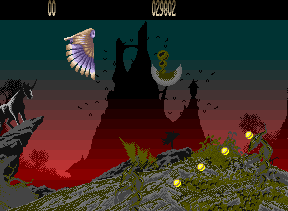
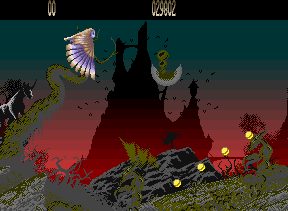
Bring the front map in from the right, as Front_Table does
The original starts a level on an empty front playfield and builds each
column of the map 40 bytes into the build screen, just right of the
window. The port filled the screen with the first eleven columns at once,
which put the whole front scenery ten columns ahead of the level script,
the back scroll and the palette steps: the breaking wave that is the
final monster of the sea had left the screen when the script brought it
in, and every palette step landed on the wrong stretch of scenery.

diff --git a/src/main/java/com/artandmagic/agony/game/FrontScroll.java b/src/main/java/com/artandmagic/agony/game/FrontScroll.java
@@ -14,10 +14,15 @@ import com.artandmagic.agony.data.LevelData;
  * column is blitted into the build screen over sixteen 25 Hz frames, two pixels
  * of fine scroll at a time, and the screens rotate once the column is complete.
  *
- * <p>This port keeps the same 352 pixel wide buffer but treats it as a ring:
- * the column that has just left the left edge is rebuilt in one go, which is
- * invisible to the player and removes the sixteen phase blit state machine.
- * The pristine copy survives as {@link #scenery}, the build screen as
+ * <p>This port keeps the same 352 pixel wide buffer but treats it as a ring,
+ * and builds a column in one go rather than over sixteen frames.  Where it
+ * goes is what {@code Front_Table} says: 40 bytes into the build screen, the
+ * 32 pixels just right of the 304 the window shows.  The level starts on an
+ * empty front playfield and the map comes in from the right, one column per
+ * character of scroll, so the scenery, the level script and the back scroll
+ * stay in step; the final monster of the sea, a breaking wave in the last
+ * columns of the map, is on screen when the script brings it in.  The
+ * pristine copy survives as {@link #scenery}, the build screen as
  * {@link #work}.
  */
 public final class FrontScroll {
@@ -48,11 +53,16 @@ public final class FrontScroll {
         this.state = state;
     }
 
-    /** Fills the whole ring before the level starts. */
+    /** Ring column of the 40th byte of the build screen, {@code Front_Table}. */
+    private static final int ENTRY_COLUMN = 40 * 8 / CHAR_W;
+
+    /**
+     * Sets the level up: the front playfield starts empty, the first column
+     * of the map is built just right of the window, and the first palette
+     * step is in.
+     */
     public void prime(Palette palette) {
-        for (int c = 0; c < RING_W / CHAR_W; c++) {
-            installColumn(c);
-        }
+        installColumn(ENTRY_COLUMN);
         applyPalette(palette);
     }
 
@@ -98,13 +108,13 @@ public final class FrontScroll {
         }
         state.frontPhase = 0;
 
-        // The column that has just left the left edge is the one rebuilt: the
-        // window is 304 pixels of a 352 pixel ring, so it comes back in on the
-        // right sixteen video frames later, which is when the original has
-        // finished blitting it.
-        int leaving = (state.frontScroll / CHAR_W) % (RING_W / CHAR_W);
+        // The screens move on by a character, and the next column of the map
+        // is built 40 bytes into the new build screen.  The window does not
+        // reach it before the middle of the column's sixteen frames, by which
+        // time the original has blitted its top half; the port lays it all at
+        // once.
         state.frontScroll = (state.frontScroll + CHAR_W) % RING_W;
-        installColumn(leaving);
+        installColumn((state.frontScroll / CHAR_W + ENTRY_COLUMN) % (RING_W / CHAR_W));
     }
 
     /**

diff --git a/README.md b/README.md
@@ -154,9 +154,11 @@ the twelve alien shots and the twenty four rain drops.
   encode, so the twelve hand written blit routines of `Ag_Object_.s` collapse
   into one clipped blit.
 * **Scrolling.** The original cycles three 44 byte screens and blits a character
-  column over sixteen frames. Here the same 352 pixel buffer is a ring and the
-  column that just left the screen is rebuilt in one go. The pristine copy used
-  to erase the aliens survives as `FrontScroll.scenery`.
+  column over sixteen frames, 40 bytes into the build screen (`Front_Table`),
+  just right of what the window shows: a level starts on an empty front
+  playfield and the map comes in from the right. Here the same 352 pixel buffer
+  is a ring and each column is built in one go at that same place. The
+  pristine copy used to erase the aliens survives as `FrontScroll.scenery`.
 * **Alien shot groups.** The original reads past the end of `AF_LFO` when more
   than nine shots pile up within ten lines of each other; the port clamps to the
   last counter instead.
